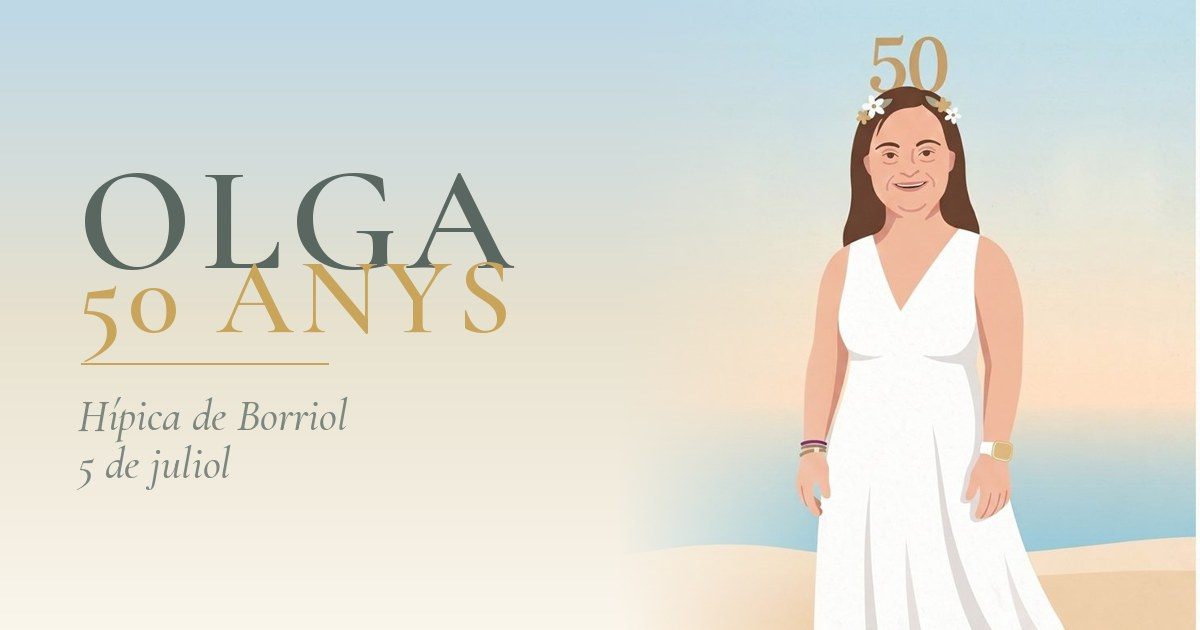
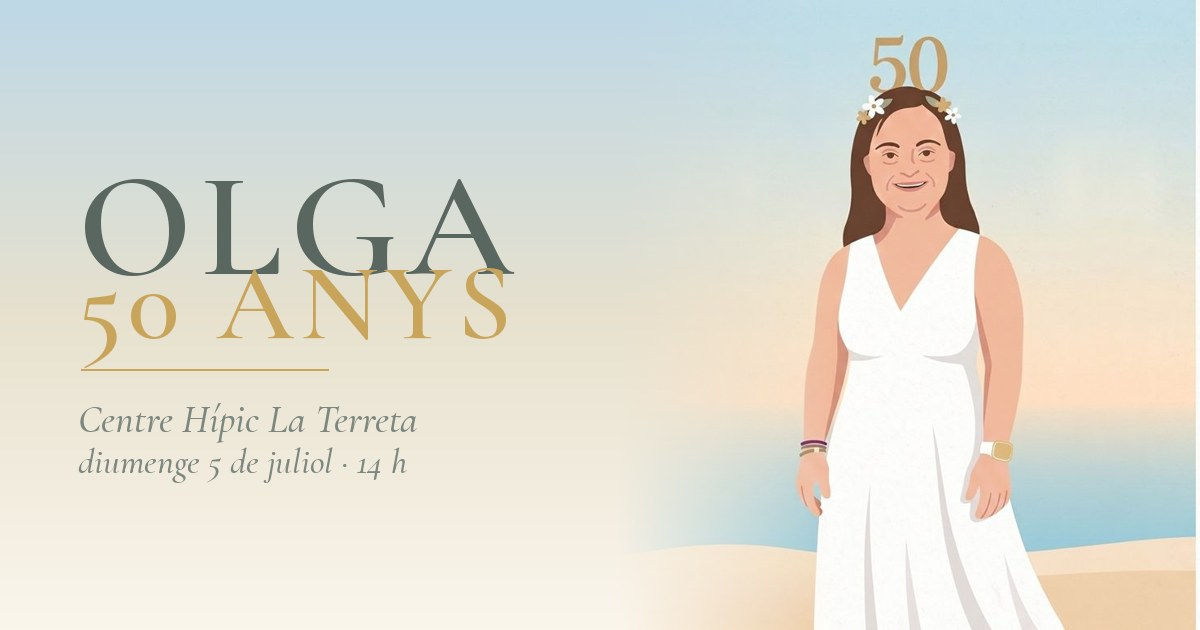
Add files via upload

diff --git a/index.html b/index.html
@@ -7,7 +7,7 @@
 <!-- Previsualització en compartir (WhatsApp, etc.) -->
 <meta property="og:type" content="website">
 <meta property="og:title" content="Olga · 50 anys">
-<meta property="og:description" content="Hípica de Borriol · 5 de juliol. Confirma la teua assistència abans del 28 de juny 🌼">
+<meta property="og:description" content="Centre Hípic La Terreta · diumenge 5 de juliol, 14 h. Confirma la teua assistència abans del 28 de juny">
 <meta property="og:image" content="https://olga-50.vercel.app/preview.jpg">
 <meta property="og:image:width" content="1200">
 <meta property="og:image:height" content="630">
@@ -46,10 +46,10 @@
   @keyframes heroIn{from{opacity:0;transform:translateX(-50%) scale(1.05);}to{opacity:1;transform:translateX(-50%) scale(1);}}
 
   .cover .title{position:relative;z-index:2;padding-bottom:64px;}
-  .cover h1{font-family:'Cormorant Garamond',serif;font-weight:600;font-size:42px;letter-spacing:1.5px;
+  .cover h1{font-family:'Cormorant Garamond',serif;font-weight:600;font-size:45px;letter-spacing:1.5px;
     line-height:1;color:var(--ink);animation:rise 1s ease .9s both;}
-  .cover .sub{font-family:'Cormorant Garamond',serif;font-style:italic;font-size:19px;color:var(--ink-soft);
-    margin-top:10px;animation:rise 1s ease 1.2s both;}
+  .cover .sub{font-family:'Cormorant Garamond',serif;font-style:italic;font-size:19.5px;color:var(--ink-soft);
+    margin-top:12px;animation:rise 1s ease 1.2s both;}
   .scroll-hint{position:absolute;bottom:20px;left:50%;transform:translateX(-50%);z-index:3;
     animation:fadePulse 2.4s ease 2s infinite;}
   .scroll-hint svg{width:26px;height:26px;}
@@ -58,21 +58,23 @@
   @keyframes rise{from{opacity:0;transform:translateY(16px);}to{opacity:1;transform:none;}}
 
   /* ---------- TEXT SECTIONS ---------- */
-  section{padding:56px 32px;display:flex;flex-direction:column;align-items:center;text-align:center;}
+  section{padding:48px 30px;display:flex;flex-direction:column;align-items:center;text-align:center;}
   /* VISIBLE per defecte; l'animació nomes afig el moviment suau. Mai queda ocult. */
   .reveal{opacity:1;transform:none;transition:opacity .9s ease, transform .9s ease;}
   .reveal.pre{opacity:0;transform:translateY(28px);}
   .reveal.in{opacity:1;transform:none;}
 
-  .ornament{width:60px;height:14px;margin-bottom:22px;opacity:.6;}
-  .lead{font-family:'Cormorant Garamond',serif;font-size:30px;line-height:1.25;color:var(--ink);font-weight:500;}
-  .para{font-size:16.5px;line-height:1.8;color:var(--ink);max-width:360px;font-weight:500;}
-  .soft{font-family:'Cormorant Garamond',serif;font-style:italic;font-size:22px;line-height:1.4;color:var(--ink-soft);}
-  .big-date{font-family:'Cormorant Garamond',serif;font-size:38px;color:var(--gold);font-weight:600;letter-spacing:1px;}
+  .ornament{width:64px;height:15px;margin-bottom:26px;opacity:.6;}
+  .lead{font-family:'Cormorant Garamond',serif;font-size:32px;line-height:1.3;color:var(--ink);font-weight:500;}
+  .para{font-size:17px;line-height:1.72;color:var(--ink);max-width:380px;font-weight:500;}
+  .soft{font-family:'Cormorant Garamond',serif;font-style:italic;font-size:23px;line-height:1.45;color:var(--ink-soft);}
+  .big-date{font-family:'Cormorant Garamond',serif;font-size:40px;color:var(--gold);font-weight:600;letter-spacing:1px;}
 
   .meta{margin-top:8px;display:flex;gap:10px;justify-content:center;flex-wrap:wrap;}
-  .chip{background:#fff;border:1px solid var(--gold-soft);border-radius:30px;padding:9px 15px;
-    font-size:13px;font-weight:600;display:flex;align-items:center;gap:6px;}
+  .chip{background:#fff;border:1px solid var(--gold-soft);border-radius:30px;padding:10px 16px;
+    font-size:13px;font-weight:600;display:inline-flex;align-items:center;gap:7px;color:var(--ink);text-decoration:none;}
+  a.chip{cursor:pointer;transition:border-color .2s ease, box-shadow .2s ease;}
+  a.chip:hover{border-color:var(--gold);box-shadow:0 6px 16px -10px rgba(201,165,92,.6);}
   .chip svg{width:15px;height:15px;}
 
   /* ---------- RSVP ---------- */
@@ -153,7 +155,7 @@
[1 lines of base64/hex data omitted]
     <div class="title">
       <h1>OLGA · 50 ANYS</h1>
-      <div class="sub">Hípica de Borriol · 5 de juliol</div>
+      <div class="sub">Centre Hípic La Terreta · 5 de juliol</div>
     </div>
     <div class="scroll-hint">
       <svg viewBox="0 0 24 24" fill="none" stroke="#c9a55c" stroke-width="2"><path d="M6 9l6 6 6-6"/></svg>
@@ -163,18 +165,18 @@
   <!-- SECTION 1 -->
   <section>
     <svg class="ornament reveal" viewBox="0 0 60 14"><path d="M2 7h18M40 7h18" stroke="#dcc187" stroke-width="1.2"/><circle cx="30" cy="7" r="4" stroke="#c9a55c" stroke-width="1.2" fill="none"/><path d="M30 3v8M26 7h8" stroke="#dcc187" stroke-width="1"/></svg>
-    <p class="lead reveal">Hola a tots i a totes! 🌼</p>
-    <p class="para reveal" style="margin-top:18px;">Com ja sabeu, el proper <b>3 de juliol</b> l'Olga fa <b>50 anys</b>.</p>
-    <p class="para reveal" style="margin-top:16px;">Ja fa temps que ens demana un natalici sorpresa per a aquesta xifra, i és per això que volem fer-li una celebració un tant especial.</p>
+    <p class="lead reveal">Hola a tots i totes!</p>
+    <p class="para reveal" style="margin-top:18px;">Com ja sabeu, el proper <b>3 de juliol</b> Olga fa <b>50 anys</b>.</p>
+    <p class="para reveal" style="margin-top:16px;">Ja fa temps que ens demana un aniversari sorpresa per a aquesta xifra, i és per això que volem fer-li una celebració un tant especial.</p>
   </section>
 
   <!-- SECTION 2 -->
   <section>
-    <p class="para reveal">Vos convidem diumenge a la Hípica de Borriol per dinar i celebrar-ho amb les persones que estima i amb qui comparteix els seus moments.</p>
+    <p class="para reveal">Vos convidem diumenge a l'Hípica La Terreta per dinar i celebrar-ho amb les persones que estima i amb qui comparteix els seus millors moments.</p>
     <div class="big-date reveal" style="margin-top:24px;">5 de juliol</div>
     <div class="meta reveal" style="margin-top:18px;">
-      <span class="chip"><svg viewBox="0 0 24 24" fill="none" stroke="#c9a55c" stroke-width="2"><rect x="3" y="4" width="18" height="18" rx="2"/><path d="M16 2v4M8 2v4M3 10h18"/></svg>Diumenge migdia</span>
-      <span class="chip"><svg viewBox="0 0 24 24" fill="none" stroke="#c9a55c" stroke-width="2"><path d="M21 10c0 7-9 12-9 12s-9-5-9-12a9 9 0 0118 0z"/><circle cx="12" cy="10" r="3"/></svg>Hípica de Borriol</span>
+      <span class="chip"><svg viewBox="0 0 24 24" fill="none" stroke="#c9a55c" stroke-width="2"><rect x="3" y="4" width="18" height="18" rx="2"/><path d="M16 2v4M8 2v4M3 10h18"/></svg>Diumenge · 14 h</span>
+      <a class="chip" href="https://www.google.com/maps/search/?api=1&amp;query=Centre%20H%C3%ADpic%20La%20Terreta&amp;query_place_id=ChIJ583V4rf5Xw0RRoPg6dmTxZQ" target="_blank" rel="noopener"><svg viewBox="0 0 24 24" fill="none" stroke="#c9a55c" stroke-width="2"><path d="M21 10c0 7-9 12-9 12s-9-5-9-12a9 9 0 0118 0z"/><circle cx="12" cy="10" r="3"/></svg>Centre Hípic La Terreta</a>
     </div>
   </section>
 
@@ -199,22 +201,23 @@
       </div>
       <!-- STEP 2 -->
       <div class="step" id="step2">
-        <div class="step-title">Quina alegria! 🥂</div>
-        <div class="step-sub">Deixa'ns les teues dades i tria l'arròs</div>
+        <div class="step-title">Quina alegria!</div>
+        <div class="step-sub">Deixa'ns les teues dades i tria el plat</div>
         <div class="field">
           <label>El teu nom</label>
           <input type="text" id="name" placeholder="Nom i cognom" autocomplete="name">
         </div>
         <div class="field">
-          <label>Tria d'arròs</label>
+          <label>Plat principal</label>
           <div class="rice">
-            <div class="opt" onclick="pickRice(this,'Arròs negre de peix de llotja')">
-              <span class="t">Arròs negre 🦑</span>
-              <span class="dd">De peix de llotja amb allioli de la seua tinta</span>
+            <div class="opt" onclick="pickRice(this,'Galtes al Porto')">
+              <span class="t">Galtes al Porto</span>
             </div>
-            <div class="opt" onclick="pickRice(this,'Paella Terreta de costellar')">
-              <span class="t">Paella Terreta 🥘</span>
-              <span class="dd">De costellar en adob a baixa temperatura</span>
+            <div class="opt" onclick="pickRice(this,'Bacallà al pilpil')">
+              <span class="t">Bacallà al pilpil</span>
+            </div>
+            <div class="opt" onclick="pickRice(this,'Arròs negre')">
+              <span class="t">Arròs negre</span>
             </div>
           </div>
         </div>
@@ -227,15 +230,15 @@
       <!-- STEP 3 -->
       <div class="step" id="step3">
         <div class="thanks">
-          <div class="big">🥂</div><h2>Confirmat!</h2>
-          <p>L'Olga estarà encantada de vore't.<br>Ens veiem el <b>5 de juliol</b> a la Hípica de Borriol.<br><br>Gràcies per ser-hi 🥂</p>
+          <div class="big"><svg viewBox="0 0 60 14" width="92" height="21" style="opacity:.7"><path d="M2 7h18M40 7h18" stroke="#dcc187" stroke-width="1.2"/><circle cx="30" cy="7" r="4" stroke="#c9a55c" stroke-width="1.2" fill="none"/><path d="M30 3v8M26 7h8" stroke="#dcc187" stroke-width="1"/></svg></div><h2>Confirmat!</h2>
+          <p>Olga estarà encantada de vore't.<br>Ens veiem el <b>5 de juliol</b> a l'Hípica La Terreta.<br><br>Gràcies per ser-hi</p>
         </div>
       </div>
       <!-- STEP 4 -->
       <div class="step" id="step4">
         <div class="thanks">
-          <div class="big">💛</div><h2>T'enyorarem!</h2>
-          <p>Gràcies per avisar.<br>Segur que l'Olga ho entén.</p>
+          <div class="big"><svg viewBox="0 0 60 14" width="92" height="21" style="opacity:.7"><path d="M2 7h18M40 7h18" stroke="#dcc187" stroke-width="1.2"/><circle cx="30" cy="7" r="4" stroke="#c9a55c" stroke-width="1.2" fill="none"/><path d="M30 3v8M26 7h8" stroke="#dcc187" stroke-width="1"/></svg></div><h2>T'enyorarem!</h2>
+          <p>Gràcies per avisar.<br>Segur que Olga ho entén.</p>
           <div class="field" style="margin-top:16px;">
             <label>El teu nom (opcional)</label>
             <input type="text" id="nameNo" placeholder="Per saber qui falta">
@@ -261,11 +264,12 @@
   <h2>Respostes</h2>
   <div class="stats">
     <div class="stat"><div class="n" id="sYes">0</div><div class="l">Vénen</div></div>
-    <div class="stat"><div class="n" id="sNeg">0</div><div class="l">Negre</div></div>
-    <div class="stat"><div class="n" id="sPae">0</div><div class="l">Paella</div></div>
+    <div class="stat"><div class="n" id="sD1">0</div><div class="l">Galtes</div></div>
+    <div class="stat"><div class="n" id="sD2">0</div><div class="l">Bacallà</div></div>
+    <div class="stat"><div class="n" id="sD3">0</div><div class="l">Arròs</div></div>
   </div>
   <div id="list"><div class="loading">Carregant…</div></div>
-  <button class="cta primary" style="width:100%;margin-top:16px;" onclick="exportCSV()">⬇ Exportar a CSV (Excel)</button>
+  <button class="cta primary" style="width:100%;margin-top:16px;" onclick="exportCSV()">Exportar a CSV (Excel)</button>
   <button class="cta ghost" style="width:100%;margin-top:10px;" onclick="closePanel()">← Tornar a la invitació</button>
 </div>
 
@@ -296,7 +300,7 @@
     var name=document.getElementById('name').value.trim();
     var err=document.getElementById('err2');
     if(!name){err.textContent="Posa el teu nom, per favor";return;}
-    if(!selectedRice){err.textContent="Tria un arròs";return;}
+    if(!selectedRice){err.textContent="Tria un plat";return;}
     var b=document.getElementById('submitBtn'); b.textContent="Enviant…"; b.disabled=true;
     Promise.resolve(doSave({name:name,attending:true,rice:selectedRice}))
       .then(function(){ window.go(3); })
@@ -305,7 +309,7 @@
   window.submitNo=function(){
     var name=(document.getElementById('nameNo').value.trim())||"(sense nom)";
     Promise.resolve(doSave({name:name,attending:false,rice:null})).catch(function(){});
-    document.getElementById('step4').innerHTML='<div class="thanks"><div class="big">💛</div><h2>Rebut</h2><p>Gràcies per avisar. 💛</p></div>';
+    document.getElementById('step4').innerHTML='<div class="thanks"><div class="big"><svg viewBox="0 0 60 14" width="92" height="21" style="opacity:.7"><path d="M2 7h18M40 7h18" stroke="#dcc187" stroke-width="1.2"/><circle cx="30" cy="7" r="4" stroke="#c9a55c" stroke-width="1.2" fill="none"/><path d="M30 3v8M26 7h8" stroke="#dcc187" stroke-width="1"/></svg></div><h2>Rebut</h2><p>Gràcies per avisar.</p></div>';
   };
   window.openPanel=function(){
     document.getElementById('main').style.display='none';
@@ -324,7 +328,7 @@
     if(!data.length){ alert("Encara no hi ha respostes per exportar."); return; }
     var sep=";";
     function cell(v){ v=(v==null?"":String(v)); if(/[";\n\r]/.test(v)){ v='"'+v.replace(/"/g,'""')+'"'; } return v; }
-    var lines=[["Nom","Ve","Arròs","Data"].join(sep)];
+    var lines=[["Nom","Ve","Plat","Data"].join(sep)];
     data.forEach(function(r){ lines.push([cell(r.name),cell(r.ve),cell(r.arros),cell(r.data)].join(sep)); });
     var csv="\ufeff"+lines.join("\r\n");
     var blob=new Blob([csv],{type:"text/csv;charset=utf-8;"});
@@ -395,15 +399,16 @@ if(CONFIGURED){
       const list=document.getElementById('list');
       const q=query(collection(db,COL),orderBy("ts","desc"));
       onSnapshot(q,function(snap){
-        let yes=0,neg=0,pae=0,rows="";
+        let yes=0,d1=0,d2=0,d3=0,rows="";
         window.__rsvpData=[];
         snap.forEach(function(doc){
           var d=doc.data();
           var arros = d.attending ? (d.rice||"") : "";
           if(d.attending){
             yes++;
-            if(d.rice&&d.rice.indexOf("negre")>-1)neg++;
-            if(d.rice&&d.rice.indexOf("Paella")>-1)pae++;
+            if(arros.indexOf("Galtes")>-1)d1++;
+            else if(arros.indexOf("Bacall")>-1)d2++;
+            else if(arros.indexOf("negre")>-1||arros.indexOf("Arròs")>-1)d3++;
           }
           var dataTxt="";
           if(d.ts&&d.ts.toDate){ try{ dataTxt=d.ts.toDate().toLocaleString('ca-ES'); }catch(e){} }
@@ -412,10 +417,11 @@ if(CONFIGURED){
           rows+='<tr><td>'+esc(d.name)+'</td><td>'+estat+'</td><td>'+esc(arros||'—')+'</td></tr>';
         });
         document.getElementById('sYes').textContent=yes;
-        document.getElementById('sNeg').textContent=neg;
-        document.getElementById('sPae').textContent=pae;
+        document.getElementById('sD1').textContent=d1;
+        document.getElementById('sD2').textContent=d2;
+        document.getElementById('sD3').textContent=d3;
         list.innerHTML = rows
-          ? '<table class="resp-table"><thead><tr><th>Nom</th><th>Ve?</th><th>Arròs</th></tr></thead><tbody>'+rows+'</tbody></table>'
+          ? '<table class="resp-table"><thead><tr><th>Nom</th><th>Ve?</th><th>Plat</th></tr></thead><tbody>'+rows+'</tbody></table>'
           : '<div class="loading">Encara no hi ha respostes.</div>';
       });
     };
